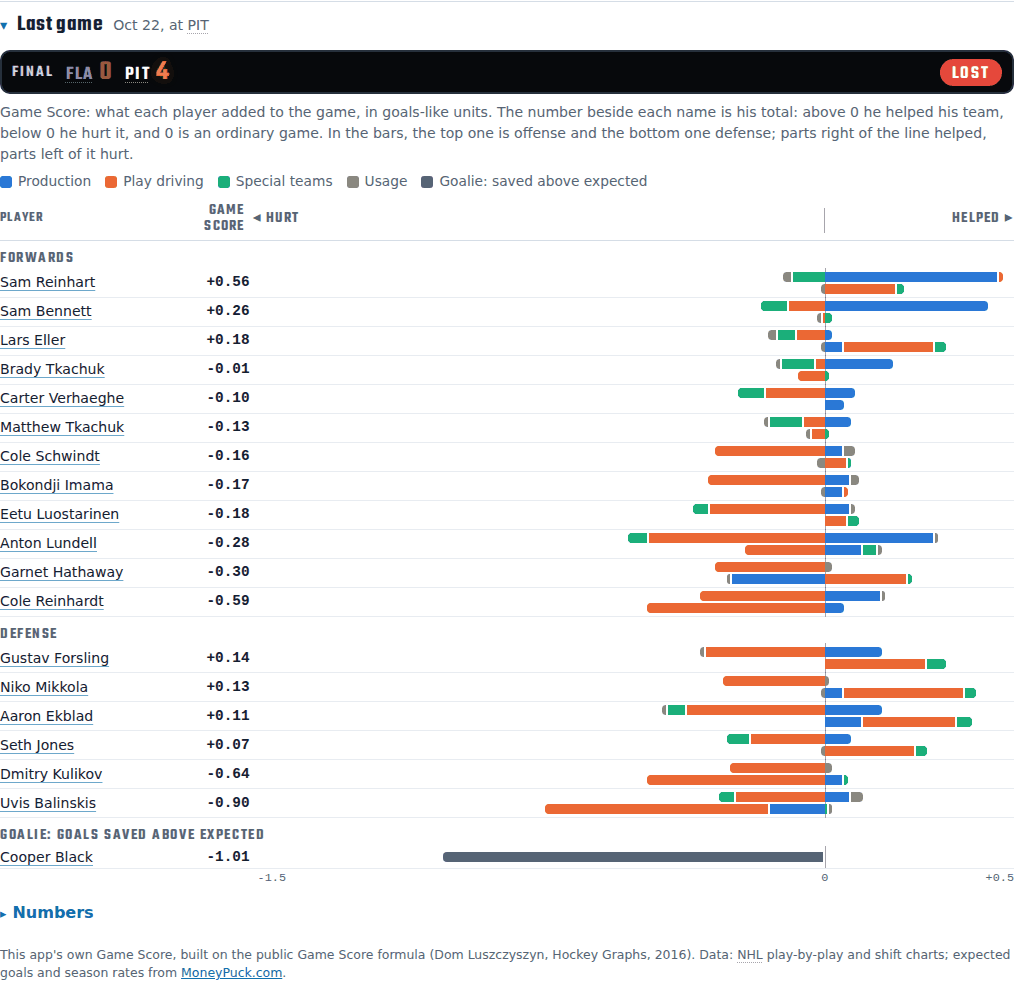
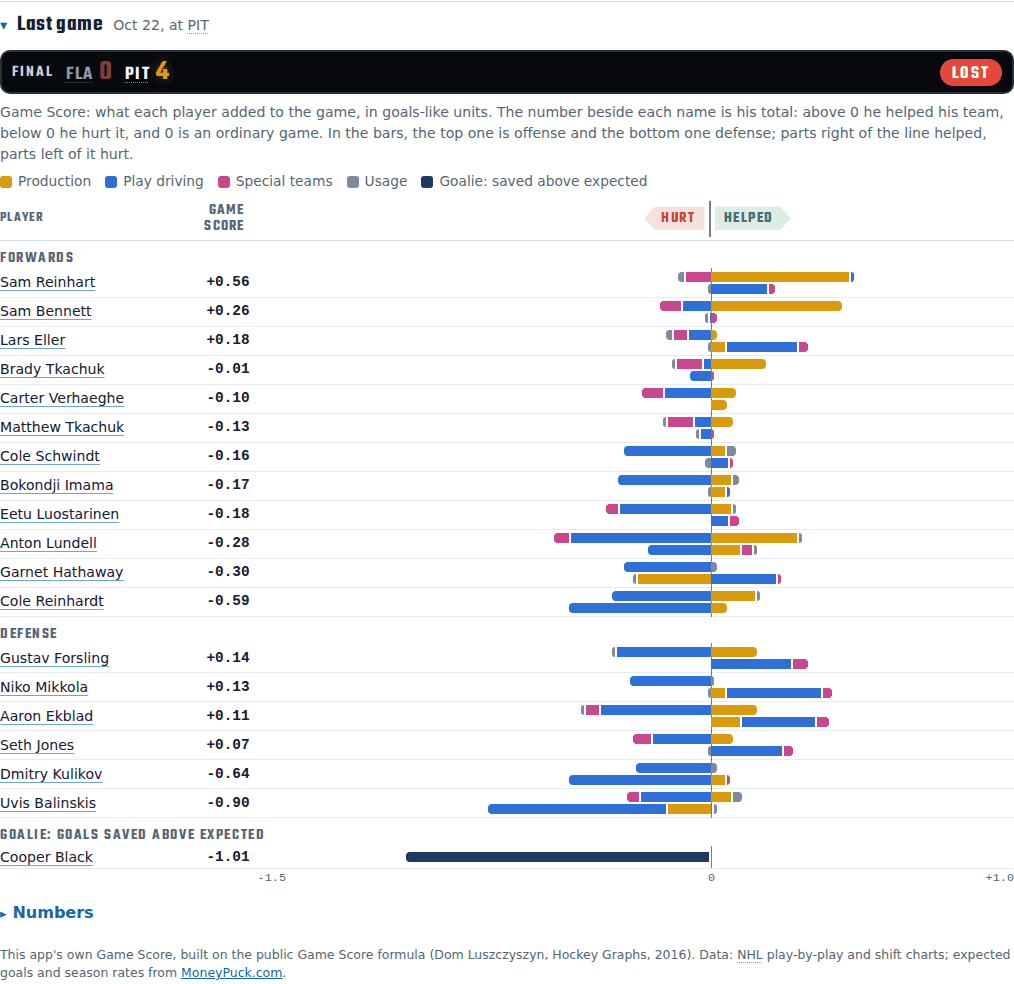
1.10.2: arena palette for the Game Score chart; Hurt and Helped beside the line
New chart colors that match the app: scoreboard gold for production,
blue-line blue for play driving, goal-light rose for special teams, slate
for usage and a navy goalie bar (lighter steps on the dark theme). The set
passes the data-viz checks on all pairs in both themes and no longer uses
the green and red of the WIN and LOSS tags.

The Hurt and Helped labels are now arrow tags on either side of the zero
line, red pointing left and green pointing right, each with a definition.
The axis keeps the zero line between 30 and 70 percent of the width so both
tags always fit, phones included. The browser check covers the colors in
both themes and the tag positions on every device, and fails on 1.10.1.

Claude-Session: https://claude.ai/code/session_01XqpNinG5Pf12J6dGNoaPvS

diff --git a/app/css/style.css b/app/css/style.css
@@ -17,7 +17,7 @@
   --display: "Teko", "Bahnschrift SemiCondensed", "Bahnschrift", "Avenir Next Condensed", "Roboto Condensed", "Arial Narrow", sans-serif-condensed, system-ui, sans-serif;
   --redline: #C8102E; --blueline: #1D4F91; --crease: #8EC3EC; --sb: #07090C; --led: #FFB21A; --ice-hi: #FBFDFF; --ice-lo: #E2ECF5;
   --mono: ui-monospace, "Cascadia Mono", Consolas, "SF Mono", Menlo, monospace;
-  --gs-prod: #2a78d6; --gs-drive: #eb6834; --gs-st: #1baf7a; --gs-use: #8a8880;
+  --gs-prod: #d99a0b; --gs-drive: #2e6fd8; --gs-st: #c9478e; --gs-use: #7f8a9c; --gs-gk: #1f3a5f;
   color-scheme: light;
 }
 @media (prefers-color-scheme: dark) {
@@ -28,7 +28,7 @@
     --high: #5fcf8a; --mod: #f0a35a; --low: #a9b6c3; --ok: #5fcf8a; --bad: #ff8a7d; --warn: #f0c060;
     --shadow: 0 1px 2px rgba(0,0,0,.4), 0 4px 14px rgba(0,0,0,.3); color-scheme: dark;
     --ice-hi: #13202E; --ice-lo: #0C151F; --crease: #3E78A8;
-    --gs-prod: #3987e5; --gs-drive: #d95926; --gs-st: #199e70; --gs-use: #8f8d85;
+    --gs-prod: #bf8a10; --gs-drive: #4a8be8; --gs-st: #cc5590; --gs-use: #8d98aa; --gs-gk: #b8c7d8;
   }
 }
 * { box-sizing: border-box; }
@@ -195,14 +195,22 @@ table.standings tr.cut td { border-top: 3px solid var(--redline); }
 .gs-val { font: 600 .9rem/1 var(--mono); text-align: right; font-variant-numeric: tabular-nums; }
 .gs-head { padding: 4px 0 5px; border-bottom: 1px solid var(--line); font: 600 .98rem/1.05 var(--display); letter-spacing: .08em; text-transform: uppercase; color: var(--muted); }
 .gs-head > .gs-val { font: inherit; cursor: help; }
-.gs-sides { position: relative; height: 1.1em; }
-.gs-sides > span { position: absolute; top: 0; white-space: nowrap; }
-.gs-sides > .hurt { left: 0; } .gs-sides > .helped { right: 0; }
-.gs-sides::before { content: ""; position: absolute; top: -2px; bottom: -6px; left: var(--z); width: 1px; background: var(--muted); opacity: .55; }
+.gs-sides { position: relative; height: 26px; }
+/* two arrow tags on either side of the zero line, each pointing away from it: red
+   "Hurt" to the left, green "Helped" to the right (kept inside the chart when the
+   line sits near an edge) */
+.gs-sides > span { position: absolute; top: 50%; transform: translateY(-50%); isolation: isolate; white-space: nowrap; cursor: help;
+  font: 600 .98rem/1 var(--display); letter-spacing: .1em; text-transform: uppercase; padding: 5px 9px 3px; }
+.gs-sides > span::before { content: ""; position: absolute; inset: 0; z-index: -1; }
+.gs-sides > .hurt { right: min(calc(100% - var(--z) + 5px), calc(100% - 4.8em)); padding-left: 17px; color: var(--bad); }
+.gs-sides > .hurt::before { background: color-mix(in srgb, var(--bad) 15%, transparent); clip-path: polygon(11px 0, 100% 0, 100% 100%, 11px 100%, 0 50%); }
+.gs-sides > .helped { left: min(calc(var(--z) + 5px), calc(100% - 5.8em)); padding-right: 17px; color: var(--ok); }
+.gs-sides > .helped::before { background: color-mix(in srgb, var(--ok) 15%, transparent); clip-path: polygon(0 0, calc(100% - 11px) 0, 100% 50%, calc(100% - 11px) 100%, 0 100%); }
+.gs-sides::before { content: ""; position: absolute; top: -4px; bottom: -6px; left: var(--z); width: 2px; margin-left: -.5px; background: var(--muted); opacity: .8; }
 .gs-grp { font: 600 .98rem/1 var(--display); letter-spacing: .1em; text-transform: uppercase; color: var(--muted); margin: 10px 0 2px; }
 .gs-bars { position: relative; height: 22px; }
 .gs-bars.gk { height: 14px; }
-.gs-bars::before { content: ""; position: absolute; top: -4px; bottom: -4px; left: var(--z); width: 1px; background: var(--muted); opacity: .55; }
+.gs-bars::before { content: ""; position: absolute; top: -4px; bottom: -4px; left: var(--z); width: 1px; background: var(--muted); opacity: .8; }
 .gs-trk { position: absolute; left: 0; right: 0; height: 10px; }
 .gs-trk.o { top: 0; } .gs-trk.d { top: 12px; } .gs-trk.g { top: 2px; }
 .gs-seg { position: absolute; top: 0; bottom: 0; display: block; cursor: help; }
@@ -210,7 +218,7 @@ table.standings tr.cut td { border-top: 3px solid var(--redline); }
 .gs-seg.neg:not(.endn) { box-shadow: inset 2px 0 0 var(--panel); }
 .gs-seg.endp { border-radius: 0 4px 4px 0; } .gs-seg.endn { border-radius: 4px 0 0 4px; }
 .gs-prod { background: var(--gs-prod); } .gs-drive { background: var(--gs-drive); } .gs-st { background: var(--gs-st); }
-.gs-use { background: var(--gs-use); } .gs-gk { background: var(--muted); }
+.gs-use { background: var(--gs-use); } .gs-gk { background: var(--gs-gk); }
 .gs-axis { margin-top: 2px; }
 .gs-ticks { position: relative; height: 1.2em; font: .74rem/1.2 var(--mono); color: var(--muted); }
 .gs-ticks > span { position: absolute; top: 0; transform: translateX(-50%); }

diff --git a/app/js/app.js b/app/js/app.js
@@ -4,7 +4,7 @@
    stats window) stay in this browser (localStorage). */
 (function () {
   "use strict";
-  const APP_VERSION = "1.10.1";
+  const APP_VERSION = "1.10.2";
   const REPO = "https://github.com/JBrady0850/nhl-daily-analytics";
   const PUBLIC_URL = "https://jbrady0850.github.io/nhl-daily-analytics/";
   const KEY = "nda:v1";
@@ -608,8 +608,12 @@
     const sk = t.skaters, gk = t.goalies || [];
     const ends = sk.flatMap(p => [p.o, p.d].map(v => [v.filter(x => x < 0).reduce((a, b) => a + b, 0), v.filter(x => x > 0).reduce((a, b) => a + b, 0)]));
     let lo = Math.min(0, ...ends.map(e => e[0]), ...gk.map(g => g.gsax || 0)), hi = Math.max(0, ...ends.map(e => e[1]), ...gk.map(g => g.gsax || 0));
+    // keep the zero line between 30% and 70% of the width, so the Hurt and Helped tags
+    // beside it always fit, even on a phone
     lo = Math.floor(lo * 2) / 2; hi = Math.ceil(hi * 2) / 2;
     if (hi - lo < 1) hi = lo + 1;
+    for (let k = 0; k < 40 && -lo / (hi - lo) > 0.7; k++) hi += 0.5;
+    for (let k = 0; k < 40 && -lo / (hi - lo) < 0.3; k++) lo -= 0.5;
     const span = hi - lo;
     const per = t.last_period && t.last_period !== "REG" ? "/" + t.last_period : "";
     const us = `<span class="fs-team${t.result === "W" ? " w" : ""}"><span>${esc(ab)}</span> <b>${esc(t.for)}</b></span>`, them = `<span class="fs-team${t.result !== "W" ? " w" : ""}"><span>${esc(t.opp)}</span> <b>${esc(t.against)}</b></span>`;
@@ -629,7 +633,7 @@
       <p class="small muted gs-how">Game Score: what each player added to the game, in goals-like units. The number beside each name is his total: above 0 he helped his team, below 0 he hurt it, and 0 is an ordinary game. In the bars, the top one is offense and the bottom one defense; parts right of the line helped, parts left of it hurt.</p>
       <div class="gs-legend">${key}<span class="gs-key" data-tip="${esc(TIPS.gs.Goalie)}"><i class="gs-sw gs-gk"></i>Goalie: saved above expected</span></div>
       <div class="gs-chart"><div class="gs-head"><span class="gs-name">Player</span><span class="gs-val" data-tip="${esc(TIPS.gs["Game Score"])}">Game Score</span>
-      <div class="gs-sides" style="--z:${((0 - lo) / span * 100).toFixed(2)}%"><span class="hurt">&#9666; Hurt</span><span class="helped">Helped &#9656;</span></div></div>
+      <div class="gs-sides" style="--z:${((0 - lo) / span * 100).toFixed(2)}%"><span class="hurt" data-tip="Left of the line: the parts of his game that cost his team.">Hurt</span><span class="helped" data-tip="Right of the line: the parts of his game that helped his team.">Helped</span></div></div>
       ${group("Forwards", fw.map(p => gsRow(p, lo, span)).join(""))}${group("Defense", dm.map(p => gsRow(p, lo, span)).join(""))}${group("Goalie: goals saved above expected", gk.map(g => gsGoalie(g, lo, span)).join(""))}
       <div class="gs-axis"><span class="gs-name"></span><span class="gs-val"></span><div class="gs-ticks">${ticks}</div></div></div>
       ${note}

diff --git a/app/sw.js b/app/sw.js
@@ -1,7 +1,7 @@
 /* Offline support for the app shell. Files come from the network first, so a
    connected device always gets the newest version and the newest data; the cached
    copy is used only when offline. Bump VERSION when the file list changes. */
-const VERSION = "nda-v1.10.1";
+const VERSION = "nda-v1.10.2";
 const FILES = ["./", "index.html", "css/style.css", "js/glossary.js", "js/app.js", "data/latest.js",
   "manifest.webmanifest", "icon.svg", "icon-180.png", "icon-192.png", "icon-512.png", "icon-maskable-512.png", "qr-app.png"];
 self.addEventListener("install", e => e.waitUntil(caches.open(VERSION).then(c => c.addAll(FILES)).then(() => self.skipWaiting())));

diff --git a/tests/ui_smoke.py b/tests/ui_smoke.py
@@ -186,6 +186,12 @@ LAST_GAME_JS = """(ab) => {
       const v = h.querySelector('.gs-val'); return [h.querySelector('.gs-name').textContent.trim(), v.textContent.trim(), !!v.dataset.tip,
         h.querySelector('.hurt').textContent.trim(), h.querySelector('.helped').textContent.trim()]; })(),
     valTips: rows.every(r => !!r.querySelector('.gs-val').dataset.tip),
+    // Hurt sits just left of the zero line and Helped just right of it, both inside the chart
+    sides: (() => { const s = lg.querySelector('.gs-head .gs-sides'); if (!s) return false;
+      const r = s.getBoundingClientRect(), z = parseFloat(s.style.getPropertyValue('--z')), x = r.left + r.width * z / 100;
+      const h = s.querySelector('.hurt').getBoundingClientRect(), p = s.querySelector('.helped').getBoundingClientRect();
+      return h.right <= x && x - h.right <= 10 && p.left >= x && p.left - x <= 10 && h.left >= r.left - 1 && p.right <= r.right + 1
+        && !!s.querySelector('.hurt').dataset.tip && !!s.querySelector('.helped').dataset.tip; })(),
     tableScore: [...lg.querySelectorAll('table.gs-table th')].some(h => h.textContent.trim() === 'Game Score'),
     labels: [...lg.querySelectorAll('.gs-bars')].every(b => (b.getAttribute('aria-label') || '').length > 10)};
 }"""
@@ -213,8 +219,19 @@ def check_last_game(pg, sample, ab):
             "result": [{"W": "Won", "L": "Lost", "OTL": "OT loss"}[t["result"]], True],
             "scores": [f"{away} {sc[away]}", f"{home} {sc[home]}"], "tableRows": len(t["skaters"]), "heads": True, "credit": True, "labels": True,
             # the number beside each name is labeled and defined (John, 2026-10-26)
-            "head": ["Player", "Game Score", True, "\u25c2 Hurt", "Helped \u25b8"], "valTips": True, "tableScore": True}
+            "head": ["Player", "Game Score", True, "Hurt", "Helped"], "sides": True, "valTips": True, "tableScore": True}
     out = [f"my teams {ab} last game {k}: {got.get(k)} (want {v})" for k, v in want.items() if got.get(k) != v]
+    # the arena palette (John, 2026-10-26): scoreboard gold, blue-line blue, goal-light rose,
+    # slate, and a navy goalie bar; lighter steps on the dark theme. Validated with the
+    # data-viz checks (all pairs, both themes).
+    swatch = "() => ['prod', 'drive', 'st', 'use', 'gk'].map(k => getComputedStyle(document.querySelector('main .gs-legend .gs-sw.gs-' + k)).backgroundColor)"
+    for scheme, cols in (("light", ["rgb(217, 154, 11)", "rgb(46, 111, 216)", "rgb(201, 71, 142)", "rgb(127, 138, 156)", "rgb(31, 58, 95)"]),
+                         ("dark", ["rgb(191, 138, 16)", "rgb(74, 139, 232)", "rgb(204, 85, 144)", "rgb(141, 152, 170)", "rgb(184, 199, 216)"])):
+        pg.emulate_media(color_scheme=scheme)
+        seen = pg.evaluate(swatch)
+        if seen != cols:
+            out.append(f"my teams {ab} last game colors ({scheme}): {seen} (want {cols})")
+    pg.emulate_media(color_scheme="light")
     if not got.get("open"):
         out.append(f"my teams {ab}: the last game starts closed")
     return out
